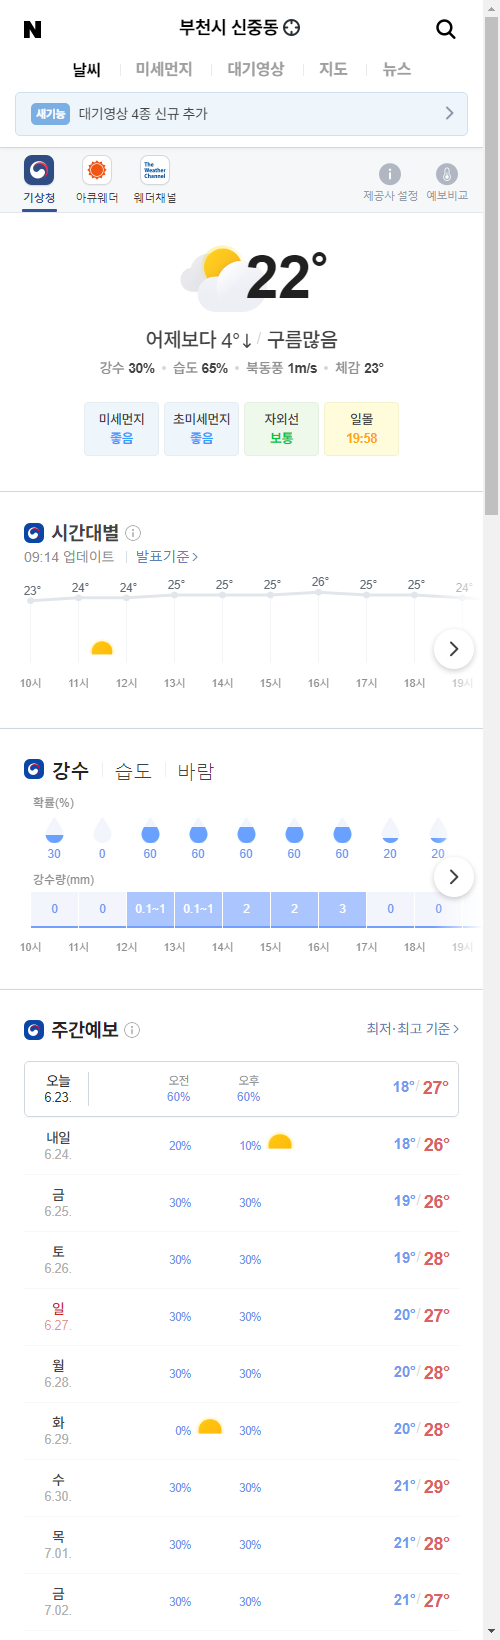
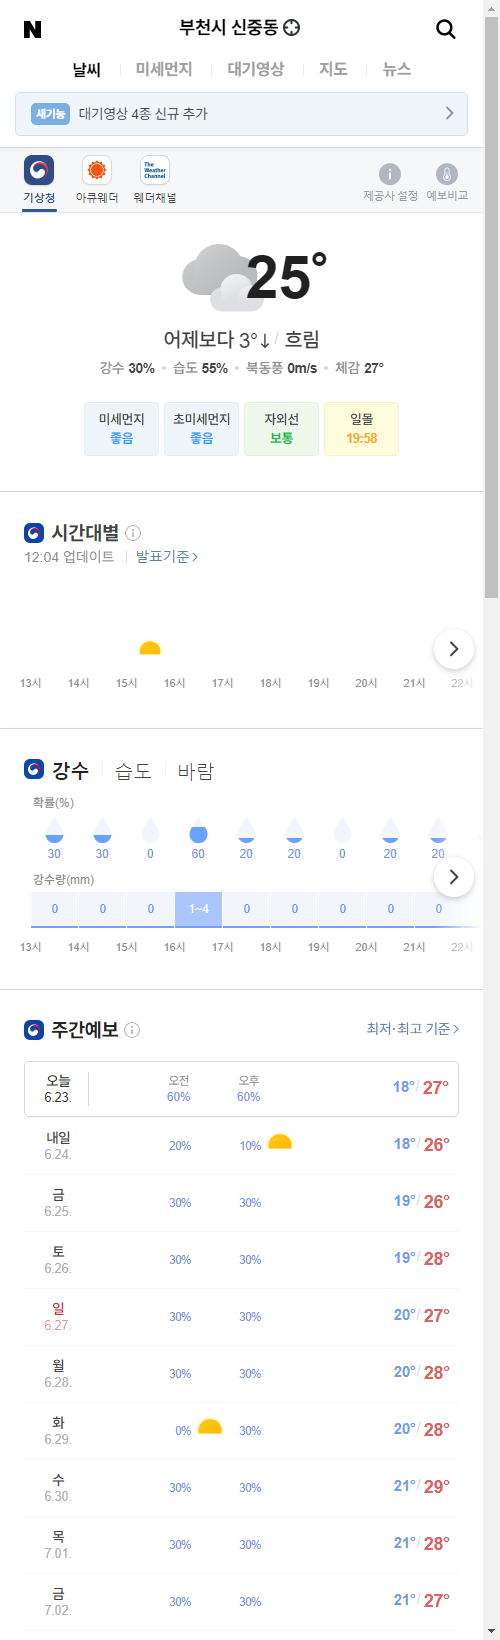
update result

diff --git a/README.md b/README.md
@@ -1,5 +1,5 @@
-##  2021-06-23 09:16:52   수요일 
-##### 날씨   -   어제보다 4° 낮아요구름많음  
+##  2021-06-23 12:07:21   수요일 
+##### 날씨   -   어제보다 3° 낮아요흐림  
 <center><img src="../img/naver_weather_week.png"></center>
 ----
 ----
@@ -16,14 +16,14 @@
 <tr align = "right" > <td>DOW</td><td>33,945.58</td><td>68.61</td><td><font size="3" color="red" >0.2%</font></td><td><font size="3" color="black">0</font></td><td><font size="3" color="black">0</font></td><td>0</td>  </tr>
 <tr align = "right" > <td>NASDAQ</td><td>14,253.27</td><td>111.79</td><td><font size="3" color="red" >0.79%</font></td><td><font size="3" color="black">0</font></td><td><font size="3" color="black">0</font></td><td>0</td>  </tr>
 <tr align = "right" > <td>S&P</td><td>4,246.44</td><td>21.65</td><td><font size="3" color="red" >0.51%</font></td><td><font size="3" color="black">0</font></td><td><font size="3" color="black">0</font></td><td>0</td>  </tr>
-<tr align = "right" > <td>SHANHAI</td><td>3,557.41</td><td>28.23</td><td><font size="3" color="red" >0.8%</font></td><td><font size="3" color="black">0</font></td><td><font size="3" color="black">0</font></td><td>0</td>  </tr>
+<tr align = "right" > <td>SHANHAI</td><td>3,569.2</td><td>11.79</td><td><font size="3" color="red" >0.33%</font></td><td><font size="3" color="black">0</font></td><td><font size="3" color="black">0</font></td><td>0</td>  </tr>
 <tr align = "right" > <td>INDIA</td><td>52,588.71</td><td>14.25</td><td><font size="3" color="red" >0.03%</font></td><td><font size="3" color="black">0</font></td><td><font size="3" color="black">0</font></td><td>0</td>  </tr>
 </table>
 ----
 ##### 시장
 <table border="1" bordercolor="blue" align = "center" >
 <tr align = "right" > <td>Item</td><td>Price</td><td>Diff</td><td>Rate</td><td>Buy</td><td>Sell</td><td>...</td>  </tr>
-<tr align = "right" > <td>USD</td><td>1,132.0</td><td>-2.6</td><td><font size="3" color="blue">-0.23%</font></td><td><font size="3" color="black">1,110</font></td><td><font size="3" color="black">0</font></td><td>0</td>  </tr>
+<tr align = "right" > <td>USD</td><td>1,136.0</td><td>1.4</td><td><font size="3" color="red">0.12%</font></td><td><font size="3" color="black">1,110</font></td><td><font size="3" color="black">0</font></td><td>0</td>  </tr>
 <tr align = "right" > <td>WTI</td><td>72.85</td><td>-0.27</td><td><font size="3" color="blue">-0.36%</font></td><td><font size="3" color="black">29.0</font></td><td><font size="3" color="black">0</font></td><td>0</td>  </tr>
 <tr align = "right" > <td>GOLD</td><td>1,776.0</td><td>-5.8</td><td><font size="3" color="blue">-0.32%</font></td><td><font size="3" color="black">0</font></td><td><font size="3" color="black">0</font></td><td>0</td>  </tr>
 </table>
@@ -31,26 +31,26 @@
 ##### 주가
 <table border="1" bordercolor="blue" align = "center" >
 <tr align = "right" > <td>Item</td><td>Price</td><td>Diff</td><td>Rate</td><td>Purchased</td><td>Sell</td><td>Buy</td>  </tr>
-<tr align = "right" > <td>한국 전력</td><td>24,850</td><td>-200</td><td><font size="3" color="blue">-0.8%</font></td><td>25,720</td><td><font size="3" color="black">27,700</font></td><td><font size="3" color="black">20,700</font></td>  </tr>
-<tr align = "right" > <td>삼성엔지니어.</td><td>26,050</td><td>0</td><td><font size="3" color="black">0.0%</font></td><td>18,935</td><td><font size="3" color="black">20,000</font></td><td><font size="3" color="black">8,000</font></td>  </tr>
+<tr align = "right" > <td>한국 전력</td><td>24,650</td><td>-400</td><td><font size="3" color="blue">-1.6%</font></td><td>25,720</td><td><font size="3" color="black">27,700</font></td><td><font size="3" color="black">20,700</font></td>  </tr>
+<tr align = "right" > <td>삼성엔지니어.</td><td>25,850</td><td>-200</td><td><font size="3" color="blue">-0.77%</font></td><td>18,935</td><td><font size="3" color="black">20,000</font></td><td><font size="3" color="black">8,000</font></td>  </tr>
 <tr align = "right" > <td>CJ CGV</td><td>30,200</td><td>-800</td><td><font size="3" color="blue">-2.58%</font></td><td>34,895</td><td><font size="3" color="black">36,000</font></td><td><font size="3" color="black">0</font></td>  </tr>
-<tr align = "right" > <td>아모레퍼시픽</td><td>272,000</td><td>-3,000</td><td><font size="3" color="blue">-1.09%</font></td><td>235,350</td><td><font size="3" color="black">240,000</font></td><td><font size="3" color="black">130,000</font></td>  </tr>
-<tr align = "right" > <td>한화</td><td>31,500</td><td>0</td><td><font size="3" color="black">0.0%</font></td><td>25,550</td><td><font size="3" color="black">26,250</font></td><td><font size="3" color="black">26,250</font></td>  </tr>
-<tr align = "right" > <td>NAVER</td><td>411,000</td><td>20,000</td><td><font size="3" color="red">5.12%</font></td><td>147,200</td><td><font size="3" color="black">386,000</font></td><td><font size="3" color="black">286,000</font></td>  </tr>
-<tr align = "right" > <td>LG 화학우</td><td>378,000</td><td>-1,000</td><td><font size="3" color="blue">-0.26%</font></td><td>202,490</td><td><font size="3" color="black">384,000</font></td><td><font size="3" color="orangered">384,000</font></td>  </tr>
-<tr align = "right" > <td>스튜디오드래.</td><td>97,500</td><td>300</td><td><font size="3" color="red">0.31%</font></td><td>81,243</td><td><font size="3" color="black">85,200</font></td><td><font size="3" color="black">85,200</font></td>  </tr>
-<tr align = "right" > <td>QV미국IT</td><td>29,830</td><td>365</td><td><font size="3" color="red">1.24%</font></td><td>0</td><td><font size="3" color="black">30,000</font></td><td><font size="3" color="black">20,000</font></td>  </tr>
+<tr align = "right" > <td>아모레퍼시픽</td><td>260,000</td><td>-15,000</td><td><font size="3" color="blue">-5.45%</font></td><td>235,350</td><td><font size="3" color="black">240,000</font></td><td><font size="3" color="black">130,000</font></td>  </tr>
+<tr align = "right" > <td>한화</td><td>31,450</td><td>-50</td><td><font size="3" color="blue">-0.16%</font></td><td>25,550</td><td><font size="3" color="black">26,250</font></td><td><font size="3" color="black">26,250</font></td>  </tr>
+<tr align = "right" > <td>NAVER</td><td>421,500</td><td>30,500</td><td><font size="3" color="red">7.8%</font></td><td>147,200</td><td><font size="3" color="black">386,000</font></td><td><font size="3" color="black">286,000</font></td>  </tr>
+<tr align = "right" > <td>LG 화학우</td><td>377,000</td><td>-2,000</td><td><font size="3" color="blue">-0.53%</font></td><td>202,490</td><td><font size="3" color="black">384,000</font></td><td><font size="3" color="orangered">384,000</font></td>  </tr>
+<tr align = "right" > <td>스튜디오드래.</td><td>98,600</td><td>1,400</td><td><font size="3" color="red">1.44%</font></td><td>81,243</td><td><font size="3" color="black">85,200</font></td><td><font size="3" color="black">85,200</font></td>  </tr>
+<tr align = "right" > <td>QV미국IT</td><td>29,905</td><td>440</td><td><font size="3" color="red">1.49%</font></td><td>0</td><td><font size="3" color="black">30,000</font></td><td><font size="3" color="black">20,000</font></td>  </tr>
 <tr align = "right" > <td>삼성 전자우</td><td>73,700</td><td>0</td><td><font size="3" color="black">0.0%</font></td><td>48,250</td><td><font size="3" color="black">56,000</font></td><td><font size="3" color="black">45,000</font></td>  </tr>
-<tr align = "right" > <td>LS</td><td>69,500</td><td>500</td><td><font size="3" color="red">0.72%</font></td><td>71,900</td><td><font size="3" color="black">82,000</font></td><td><font size="3" color="black">60,000</font></td>  </tr>
-<tr align = "right" > <td>한화에어로스.</td><td>47,100</td><td>-350</td><td><font size="3" color="blue">-0.74%</font></td><td>25,700</td><td><font size="3" color="black">30,000</font></td><td><font size="3" color="black">24,000</font></td>  </tr>
-<tr align = "right" > <td>카카오</td><td>163,000</td><td>4,000</td><td><font size="3" color="red">2.52%</font></td><td>405,500</td><td><font size="3" color="black">440,000</font></td><td><font size="3" color="orangered">400,000</font></td>  </tr>
-<tr align = "right" > <td>호텔 신라</td><td>95,800</td><td>-1,600</td><td><font size="3" color="blue">-1.64%</font></td><td>72,800</td><td><font size="3" color="black">100,000</font></td><td><font size="3" color="black">70,000</font></td>  </tr>
-<tr align = "right" > <td>S-Oil</td><td>102,000</td><td>-2,500</td><td><font size="3" color="blue">-2.39%</font></td><td>62,842</td><td><font size="3" color="black">100,000</font></td><td><font size="3" color="black">50,000</font></td>  </tr>
-<tr align = "right" > <td>LG전자</td><td>161,000</td><td>2,000</td><td><font size="3" color="red">1.26%</font></td><td>82,022</td><td><font size="3" color="black">100,000</font></td><td><font size="3" color="black">60,000</font></td>  </tr>
-<tr align = "right" > <td>KT&G</td><td>84,100</td><td>100</td><td><font size="3" color="red">0.12%</font></td><td>80,400</td><td><font size="3" color="black">100,000</font></td><td><font size="3" color="black">70,000</font></td>  </tr>
-<tr align = "right" > <td>지역난방공사</td><td>44,150</td><td>-400</td><td><font size="3" color="blue">-0.9%</font></td><td>43,590</td><td><font size="3" color="black">60,000</font></td><td><font size="3" color="black">30,000</font></td>  </tr>
-<tr align = "right" > <td>KOEDX은행</td><td>7,510</td><td>-35</td><td><font size="3" color="blue">-0.46%</font></td><td>5,178</td><td><font size="3" color="black">6,225</font></td><td><font size="3" color="black">6,225</font></td>  </tr>
-<tr align = "right" > <td>글로벌럭셔리</td><td>18,090</td><td>15</td><td><font size="3" color="red">0.08%</font></td><td>15,260</td><td><font size="3" color="black">20,000</font></td><td><font size="3" color="black">10,000</font></td>  </tr>
-<tr align = "right" > <td>한국금융지주</td><td>104,500</td><td>-500</td><td><font size="3" color="blue">-0.48%</font></td><td>0</td><td><font size="3" color="black">82,000</font></td><td><font size="3" color="black">60,000</font></td>  </tr>
+<tr align = "right" > <td>LS</td><td>69,400</td><td>400</td><td><font size="3" color="red">0.58%</font></td><td>71,900</td><td><font size="3" color="black">82,000</font></td><td><font size="3" color="black">60,000</font></td>  </tr>
+<tr align = "right" > <td>한화에어로스.</td><td>46,300</td><td>-1,150</td><td><font size="3" color="blue">-2.42%</font></td><td>25,700</td><td><font size="3" color="black">30,000</font></td><td><font size="3" color="black">24,000</font></td>  </tr>
+<tr align = "right" > <td>카카오</td><td>168,500</td><td>9,500</td><td><font size="3" color="red">5.97%</font></td><td>405,500</td><td><font size="3" color="black">440,000</font></td><td><font size="3" color="orangered">400,000</font></td>  </tr>
+<tr align = "right" > <td>호텔 신라</td><td>95,100</td><td>-2,300</td><td><font size="3" color="blue">-2.36%</font></td><td>72,800</td><td><font size="3" color="black">100,000</font></td><td><font size="3" color="black">70,000</font></td>  </tr>
+<tr align = "right" > <td>S-Oil</td><td>101,000</td><td>-3,500</td><td><font size="3" color="blue">-3.35%</font></td><td>62,842</td><td><font size="3" color="black">100,000</font></td><td><font size="3" color="black">50,000</font></td>  </tr>
+<tr align = "right" > <td>LG전자</td><td>157,500</td><td>-1,500</td><td><font size="3" color="blue">-0.94%</font></td><td>82,022</td><td><font size="3" color="black">100,000</font></td><td><font size="3" color="black">60,000</font></td>  </tr>
+<tr align = "right" > <td>KT&G</td><td>84,000</td><td>0</td><td><font size="3" color="black">0.0%</font></td><td>80,400</td><td><font size="3" color="black">100,000</font></td><td><font size="3" color="black">70,000</font></td>  </tr>
+<tr align = "right" > <td>지역난방공사</td><td>43,500</td><td>-1,050</td><td><font size="3" color="blue">-2.36%</font></td><td>43,590</td><td><font size="3" color="black">60,000</font></td><td><font size="3" color="black">30,000</font></td>  </tr>
+<tr align = "right" > <td>KOEDX은행</td><td>7,465</td><td>-80</td><td><font size="3" color="blue">-1.06%</font></td><td>5,178</td><td><font size="3" color="black">6,225</font></td><td><font size="3" color="black">6,225</font></td>  </tr>
+<tr align = "right" > <td>글로벌럭셔리</td><td>18,170</td><td>95</td><td><font size="3" color="red">0.53%</font></td><td>15,260</td><td><font size="3" color="black">20,000</font></td><td><font size="3" color="black">10,000</font></td>  </tr>
+<tr align = "right" > <td>한국금융지주</td><td>103,500</td><td>-1,500</td><td><font size="3" color="blue">-1.43%</font></td><td>0</td><td><font size="3" color="black">82,000</font></td><td><font size="3" color="black">60,000</font></td>  </tr>
 </table>
 ----
